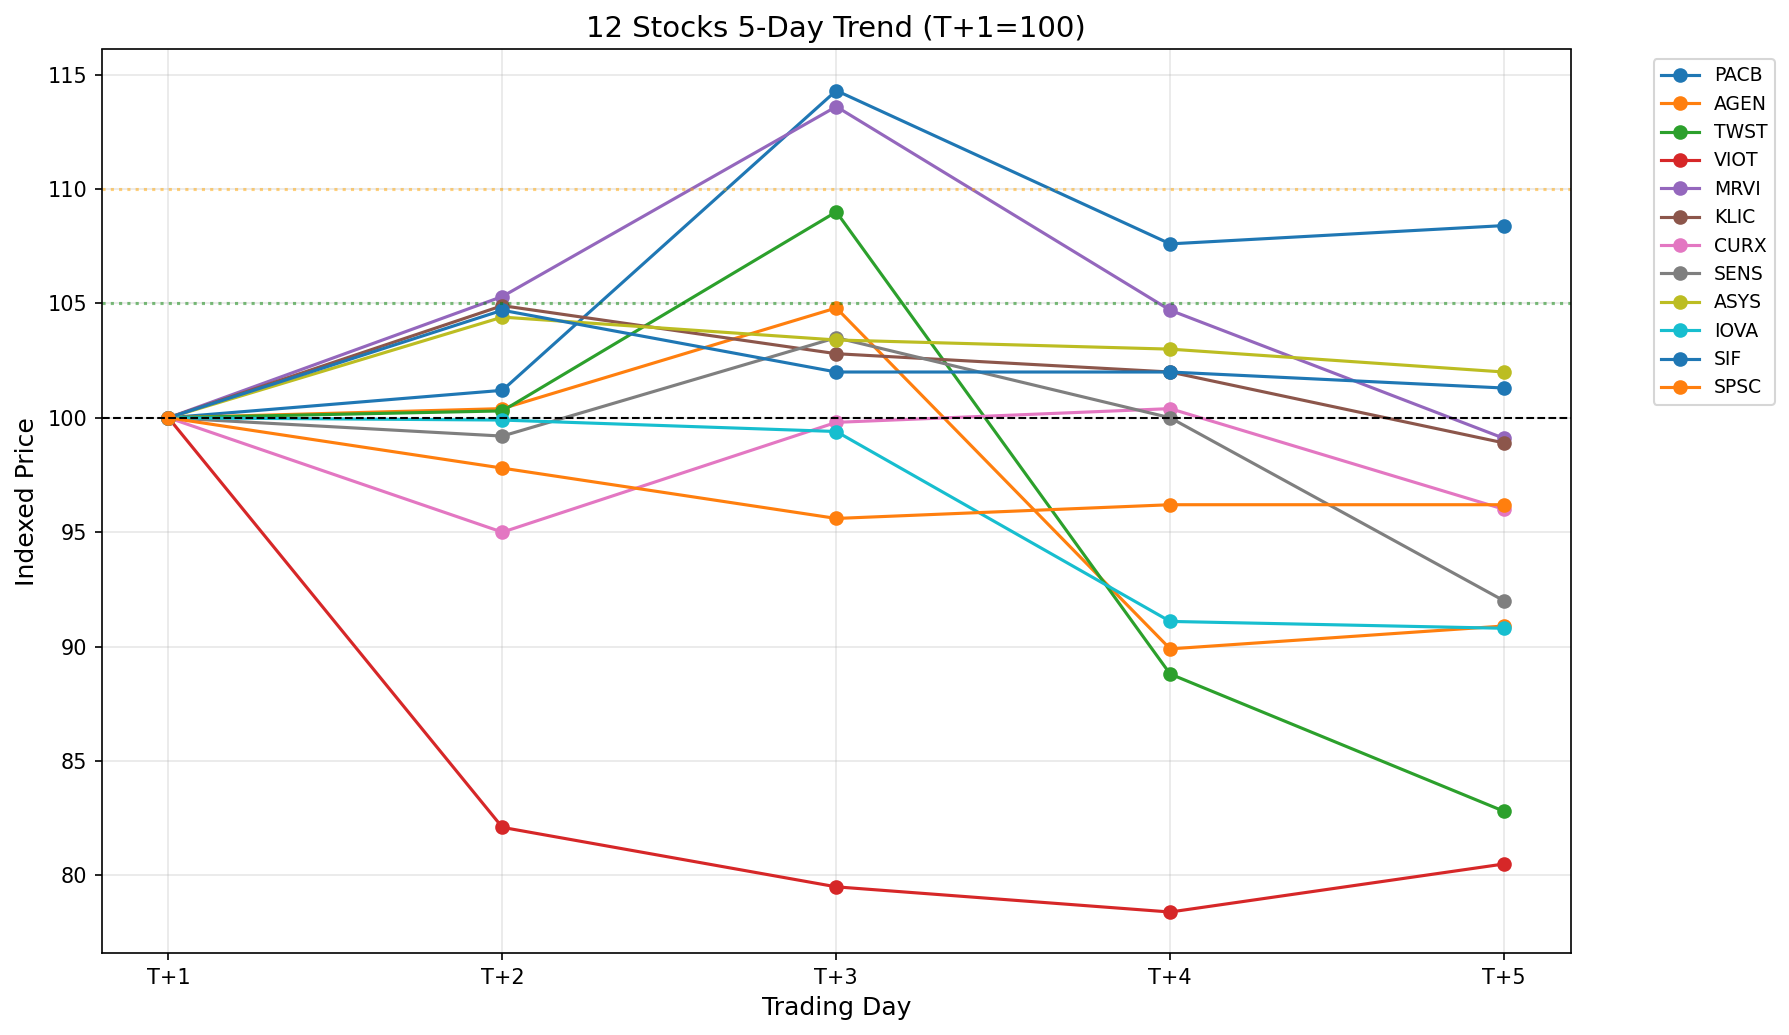
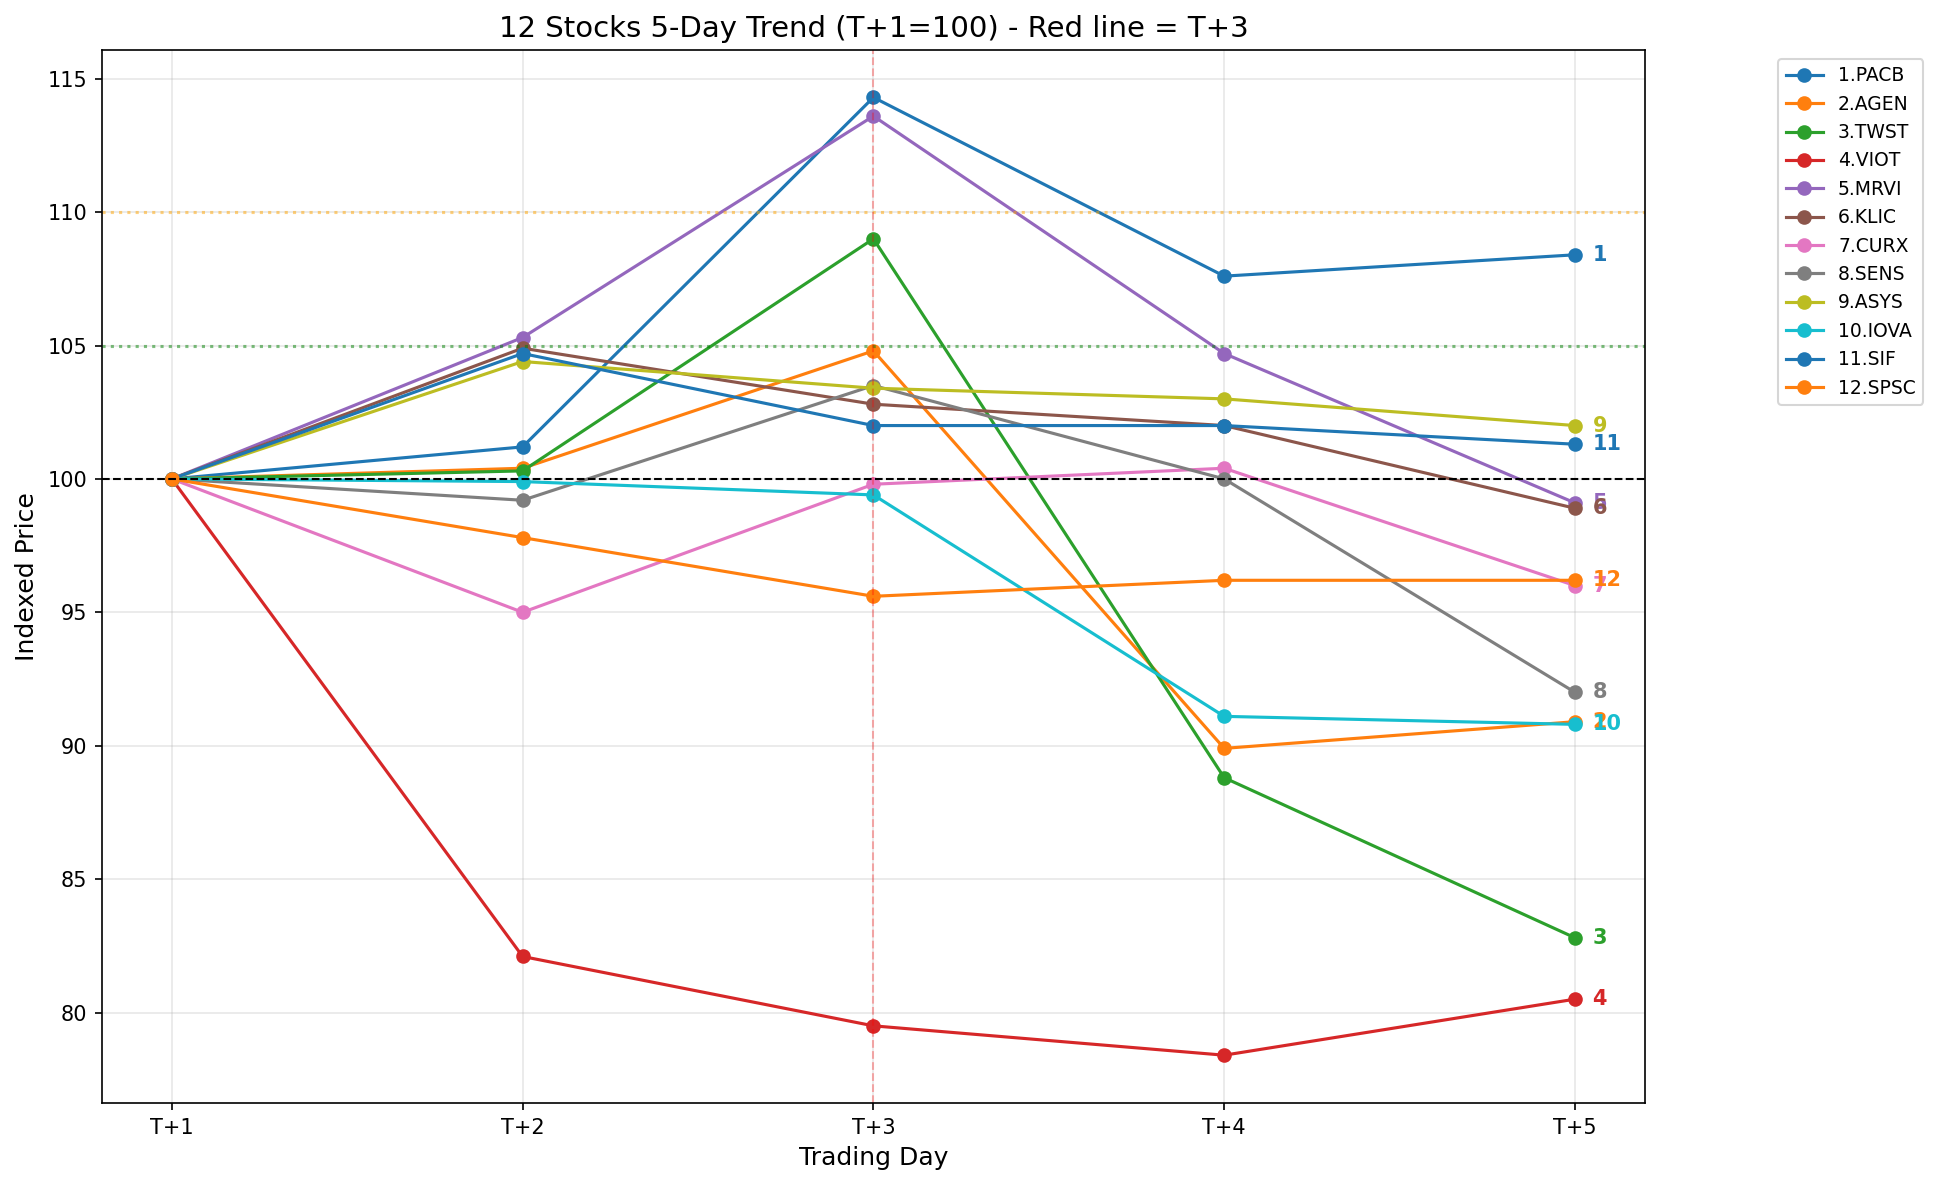
us-2026-10-07: 去掉迷你走势栏，折线图加编号标注+T+3线

diff --git a/us-2026-10-07.html b/us-2026-10-07.html
@@ -127,23 +127,23 @@
 <h3>五日前回看</h3>
 <p>T+0=09-30（入选日），T+1=10-01（买入日），T+1~T+5为持有期。12 只：</p>
 <div class="table-wrap"><table>
-<tr><th>代码</th><th>T+5涨跌</th><th>5日内最高</th><th>最高日</th><th>至最高涨跌</th><th>5日走势</th></tr>
-<tr><td><b>PACB</b></td><td class="up">+8.37%</td><td>3.44</td><td>T+4</td><td class="up">+37.05%</td><td style="font-size:18px;letter-spacing:1px">▁▁█▄▅</td></tr>
-<tr><td><b>AGEN</b></td><td class="down">-9.12%</td><td>9.99</td><td>T+1</td><td class="up">+19.93%</td><td style="font-size:18px;letter-spacing:1px">▅▅█▁▁</td></tr>
-<tr><td><b>TWST</b></td><td class="down">-17.23%</td><td>219.71</td><td>T+4</td><td class="up">+16.84%</td><td style="font-size:18px;letter-spacing:1px">▅▅█▂▁</td></tr>
-<tr><td><b>VIOT</b></td><td class="down">-19.47%</td><td>2.22</td><td>T+1</td><td class="up">+16.84%</td><td style="font-size:18px;letter-spacing:1px">█▂▁▁▁</td></tr>
-<tr><td><b>MRVI</b></td><td class="down">-0.93%</td><td>8.74</td><td>T+4</td><td class="up">+16.53%</td><td style="font-size:18px;letter-spacing:1px">▁▄█▃▁</td></tr>
-<tr><td><b>KLIC</b></td><td class="down">-1.12%</td><td>101.94</td><td>T+3</td><td class="up">+6.15%</td><td style="font-size:18px;letter-spacing:1px">▂█▅▄▁</td></tr>
-<tr><td><b>CURX</b></td><td class="down">-4.02%</td><td>5.29</td><td>T+4</td><td class="up">+6.44%</td><td style="font-size:18px;letter-spacing:1px">▇▁▇█▂</td></tr>
-<tr><td><b>SENS</b></td><td class="down">-8.03%</td><td>10.55</td><td>T+4</td><td class="up">+5.92%</td><td style="font-size:18px;letter-spacing:1px">▅▅█▅▁</td></tr>
-<tr><td><b>ASYS</b></td><td class="up">+2.03%</td><td>18.25</td><td>T+4</td><td class="up">+5.80%</td><td style="font-size:18px;letter-spacing:1px">▁█▆▅▄</td></tr>
-<tr><td><b>IOVA</b></td><td class="down">-9.21%</td><td>15.03</td><td>T+1</td><td class="up">+5.62%</td><td style="font-size:18px;letter-spacing:1px">█▇▇▁▁</td></tr>
-<tr><td><b>SIF</b></td><td class="up">+1.33%</td><td>23.78</td><td>T+4</td><td class="up">+5.45%</td><td style="font-size:18px;letter-spacing:1px">▁█▃▄▂</td></tr>
-<tr><td><b>SPSC</b></td><td class="down">-3.80%</td><td>85.31</td><td>T+1</td><td class="up">+1.32%</td><td style="font-size:18px;letter-spacing:1px">█▄▁▂▂</td></tr>
+<tr><th>代码</th><th>T+5涨跌</th><th>5日内最高</th><th>最高日</th><th>至最高涨跌</th></tr>
+<tr><td><b>PACB</b></td><td class="up">+8.37%</td><td>3.44</td><td>T+4</td><td class="up">+37.05%</td></tr>
+<tr><td><b>AGEN</b></td><td class="down">-9.12%</td><td>9.99</td><td>T+1</td><td class="up">+19.93%</td></tr>
+<tr><td><b>TWST</b></td><td class="down">-17.23%</td><td>219.71</td><td>T+4</td><td class="up">+16.84%</td></tr>
+<tr><td><b>VIOT</b></td><td class="down">-19.47%</td><td>2.22</td><td>T+1</td><td class="up">+16.84%</td></tr>
+<tr><td><b>MRVI</b></td><td class="down">-0.93%</td><td>8.74</td><td>T+4</td><td class="up">+16.53%</td></tr>
+<tr><td><b>KLIC</b></td><td class="down">-1.12%</td><td>101.94</td><td>T+3</td><td class="up">+6.15%</td></tr>
+<tr><td><b>CURX</b></td><td class="down">-4.02%</td><td>5.29</td><td>T+4</td><td class="up">+6.44%</td></tr>
+<tr><td><b>SENS</b></td><td class="down">-8.03%</td><td>10.55</td><td>T+4</td><td class="up">+5.92%</td></tr>
+<tr><td><b>ASYS</b></td><td class="up">+2.03%</td><td>18.25</td><td>T+4</td><td class="up">+5.80%</td></tr>
+<tr><td><b>IOVA</b></td><td class="down">-9.21%</td><td>15.03</td><td>T+1</td><td class="up">+5.62%</td></tr>
+<tr><td><b>SIF</b></td><td class="up">+1.33%</td><td>23.78</td><td>T+4</td><td class="up">+5.45%</td></tr>
+<tr><td><b>SPSC</b></td><td class="down">-3.80%</td><td>85.31</td><td>T+1</td><td class="up">+1.32%</td></tr>
 </table></div>
 <p><strong>机会统计：</strong>+5%机会 <b>11只</b>（91.7%）· +10%机会 <b>5只</b>（41.7%）· +15%机会 <b>5只</b>（41.7%）· T+5收盘上涨 3只 / 亏损 9只</p>
 <p>💡 91.7%有+5%机会，但75%拿到T+5是亏的——选票没问题，全是卖的时机问题。强势股天生波动，必须看图判断卖点。</p>
-<div style="text-align:center;margin:20px 0"><img src="us-2026-10-07-trend.png" alt="12只5日走势图" style="max-width:100%;border-radius:8px;box-shadow:0 2px 8px rgba(0,0,0,0.1)"><p style="color:#666;font-size:13px;margin-top:8px">12只5日走势（T+1=100指数化，黑线=买入价，绿线=+5%，橙线=+10%）</p></div>
+<div style="text-align:center;margin:20px 0"><img src="us-2026-10-07-trend.png" alt="12只5日走势图" style="max-width:100%;border-radius:8px;box-shadow:0 2px 8px rgba(0,0,0,0.1)"><p style="color:#666;font-size:13px;margin-top:8px">12只5日走势（T+1=100指数化；编号1-12对应表序；黑线=买入价，绿线=+5%，橙线=+10%，红虚线=T+3）</p></div>
 <h3>本期记录</h3>
 <p>本期 24 只新入池（表A 21 只、表B 3 只）。失败记录不删除。</p>
 
